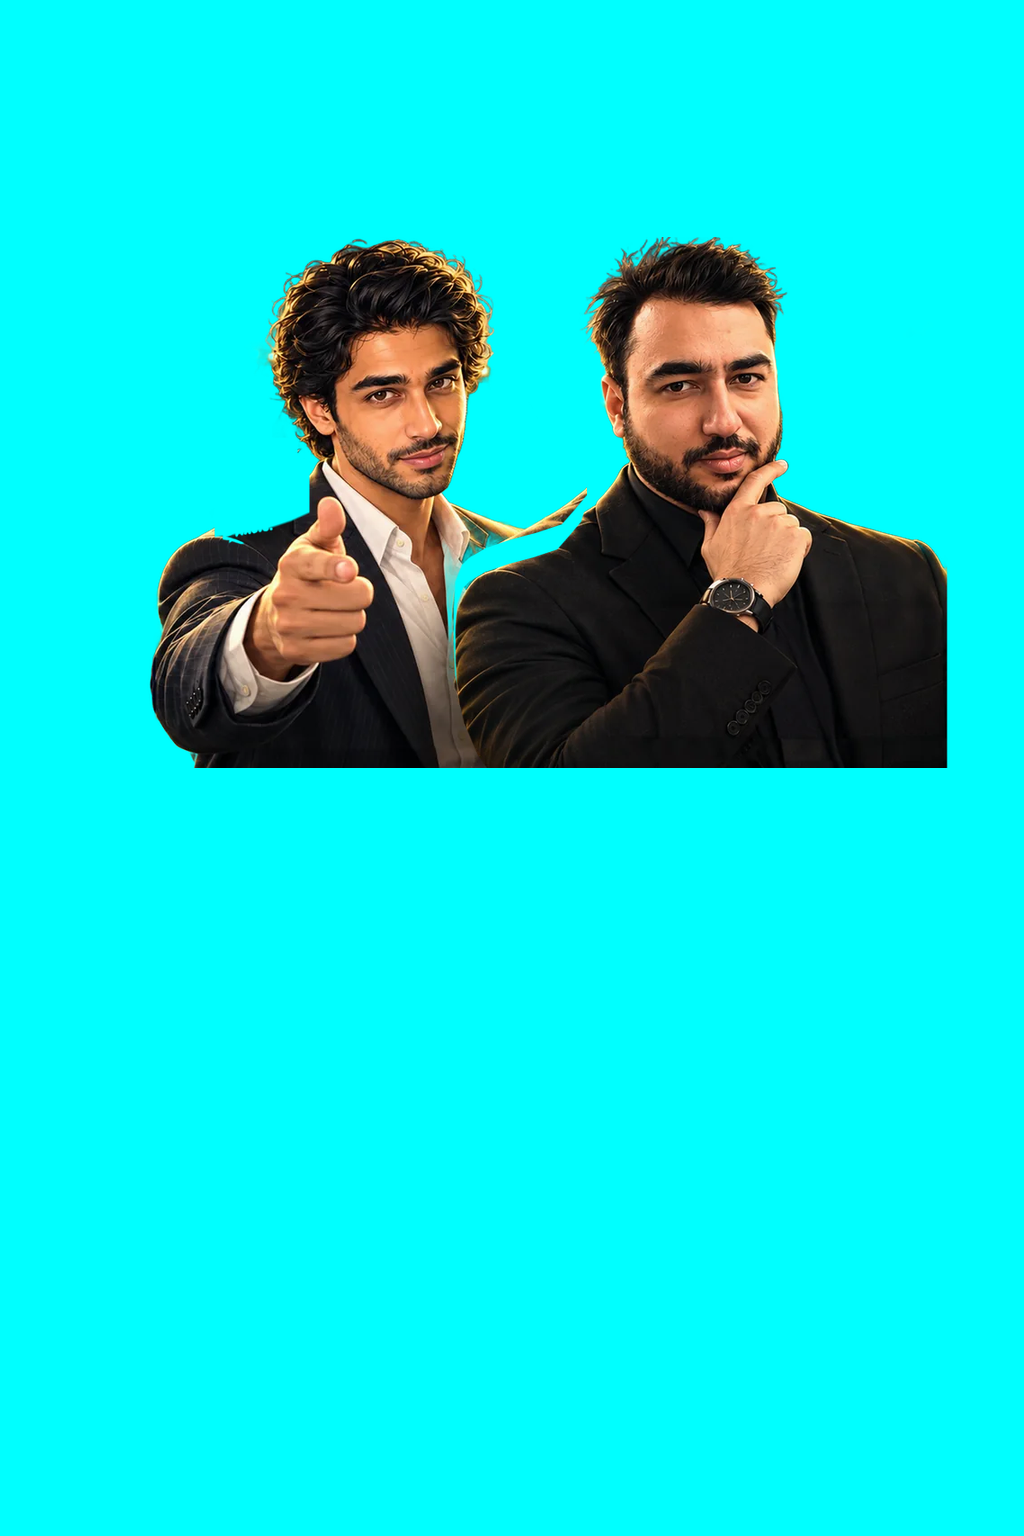
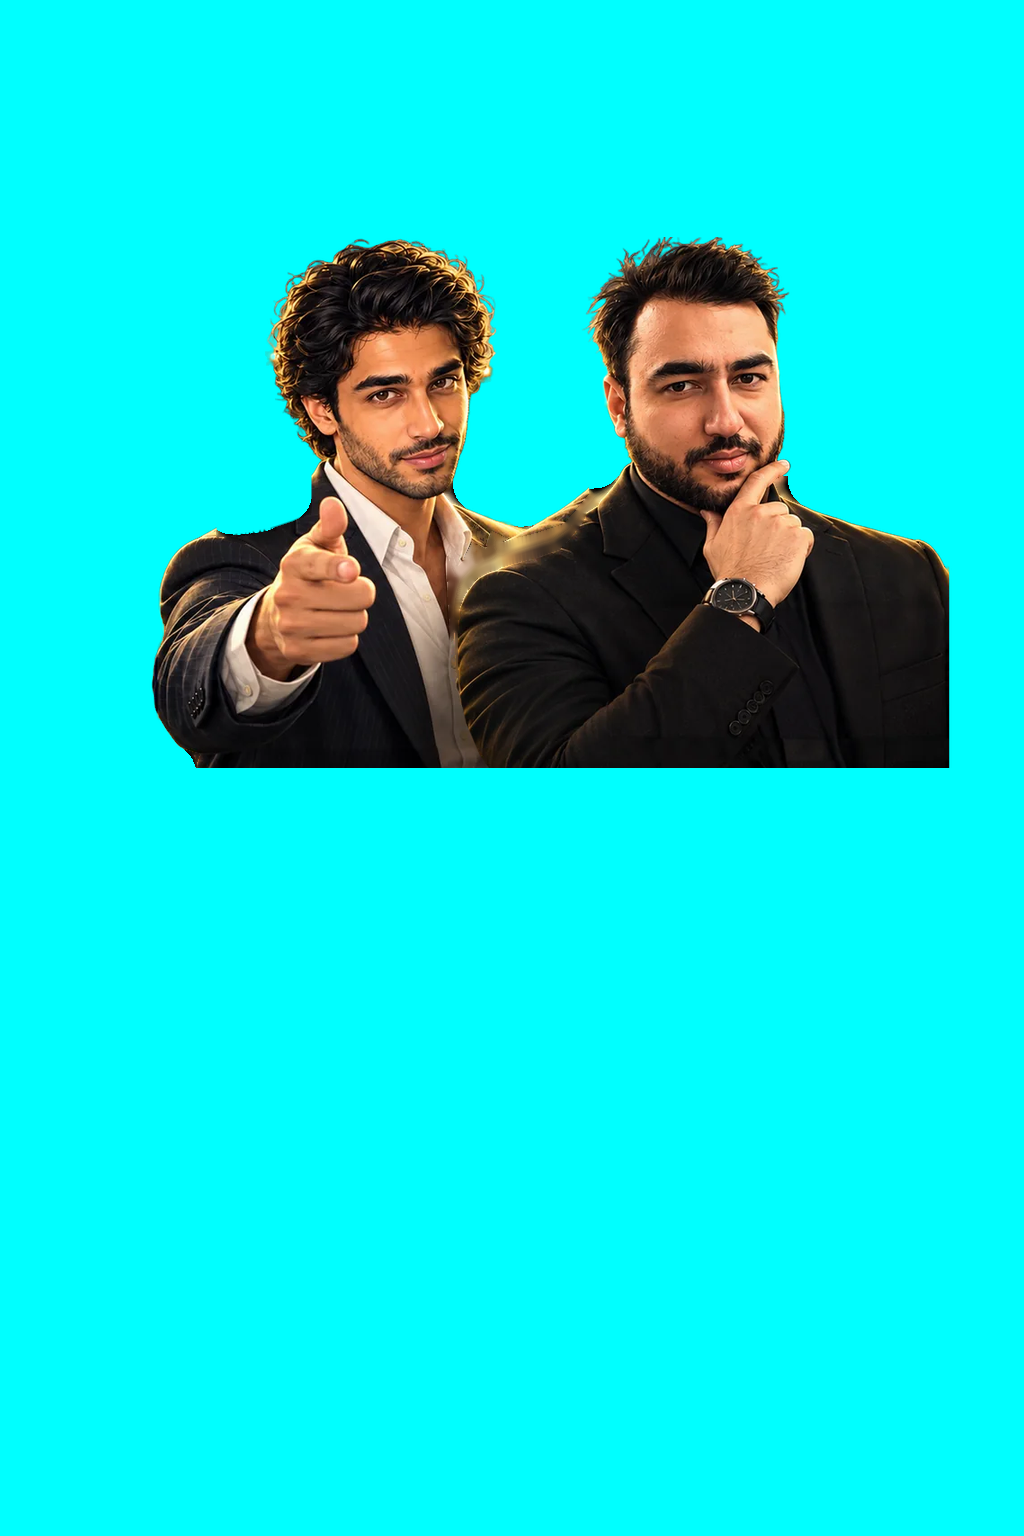
HC 02 guide: drop loose cut-out bits, close the gap between the men's shoulders
Claude-Session: https://claude.ai/code/session_01GU43Q55MWFc5kxaqRPspjd

Changed region(s): [[0.125, 0.1562, 0.8125, 0.5], [0.8438, 0.3438, 0.9375, 0.5]]

diff --git a/project-documents/factory/tools/hc/guide_phone.py b/project-documents/factory/tools/hc/guide_phone.py
@@ -2,19 +2,43 @@
 python3 project-documents/factory/tools/hc/guide_phone.py DANIEL.webp NIK.webp OUT.png
 Grid: hair top at 16% height, lip (cut line) at 50%, Nik in front of Daniel's right shoulder, the phone crop is the centre 864 px (x 80-944)."""
 import sys, json
+import cv2, numpy as np
 from PIL import Image
 W, H = 1024, 1536
 TOP, LIP, S = round(H * 0.16), round(H * 0.50), 0.90
-d, n = Image.open(sys.argv[1]).convert("RGBA"), Image.open(sys.argv[2]).convert("RGBA")
+def solid(im):
+    """Keep only the biggest piece of the cut-out (drops loose bits floating next to it)."""
+    a = np.asarray(im).copy()
+    k, lab, st, _ = cv2.connectedComponentsWithStats((a[:, :, 3] > 40).astype(np.uint8), 8)
+    big = 1 + int(np.argmax(st[1:, cv2.CC_STAT_AREA]))
+    keep = cv2.dilate((lab == big).astype(np.uint8), np.ones((3, 3), np.uint8))
+    a[:, :, 3] = a[:, :, 3] * keep
+    return Image.fromarray(a)
+
+
+d, n = solid(Image.open(sys.argv[1]).convert("RGBA")), solid(Image.open(sys.argv[2]).convert("RGBA"))
 DX_OVER, NIK_L = 340, 72          # Daniel x where Nik's left edge sits; Nik's alpha starts at x 72
 span = (DX_OVER - NIK_L) * S + n.getbbox()[2] * S - 6   # alpha right edge, 6 px past the crop
 # Nik's cut right edge sits on the phone crop edge (x 944), so it is never seen
 x0 = round(944 - span); y0 = TOP - round(10 * S)
-c = Image.new("RGBA", (W, H), (0, 255, 255, 255))
+c = Image.new("RGBA", (W, H), (0, 0, 0, 0))
 for im, x in ((d, x0), (n, x0 + round((DX_OVER - NIK_L) * S))):
     im = im.resize((round(im.width * S), round(im.height * S)), Image.LANCZOS)
     c.alpha_composite(im, (x, y0))
-c = c.convert("RGB")
+# close the small cyan gaps between the two men (Nik's shoulder, Daniel's lapel) with coat pixels
+A = np.asarray(c).copy()
+A[:LIP][A[:LIP, :, 3] == 0] = 0
+men = (A[:, :, 3] > 200).astype(np.uint8)
+closed = cv2.morphologyEx(men, cv2.MORPH_CLOSE, cv2.getStructuringElement(cv2.MORPH_ELLIPSE, (61, 61)))
+closed[LIP:] = 0
+NECK = TOP + round(H * 0.15)            # above this (heads, hair) the cut-outs stay exactly as they are
+closed[:NECK] = men[:NECK]
+gap = (closed & (1 - men)).astype(np.uint8)
+unk = ((gap > 0) | ((A[:, :, 3] > 0) & (A[:, :, 3] <= 200) & (closed > 0))).astype(np.uint8)
+rgb = cv2.inpaint(np.ascontiguousarray(A[:, :, :3]), unk * 255, 9, cv2.INPAINT_TELEA)
+a = np.where(closed > 0, 1.0, A[:, :, 3] / 255.0)[:, :, None]
+rgb = (rgb * a + np.array([0, 255, 255]) * (1 - a)).astype(np.uint8)
+c = Image.fromarray(rgb)
 c.paste((0, 255, 255), (0, LIP, W, H))     # below the lip is all cyan
 c.save(sys.argv[3])
 json.dump({"W": W, "H": H, "top": TOP, "lip": LIP, "scale": S, "daniel_x": x0, "nik_x": x0 + round((DX_OVER - NIK_L) * S), "y": y0},
